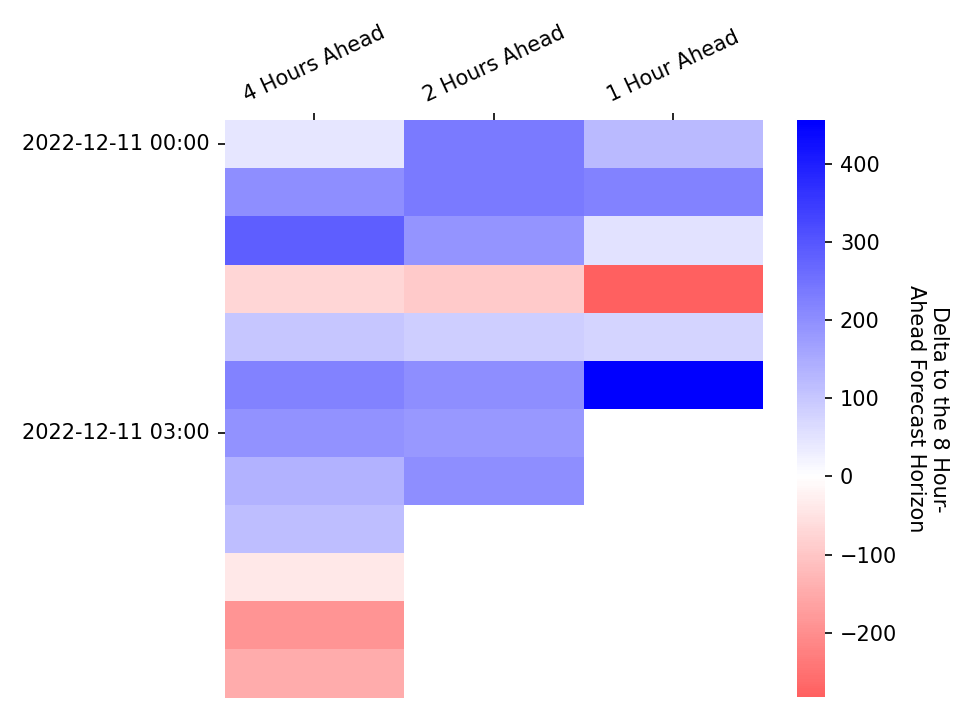
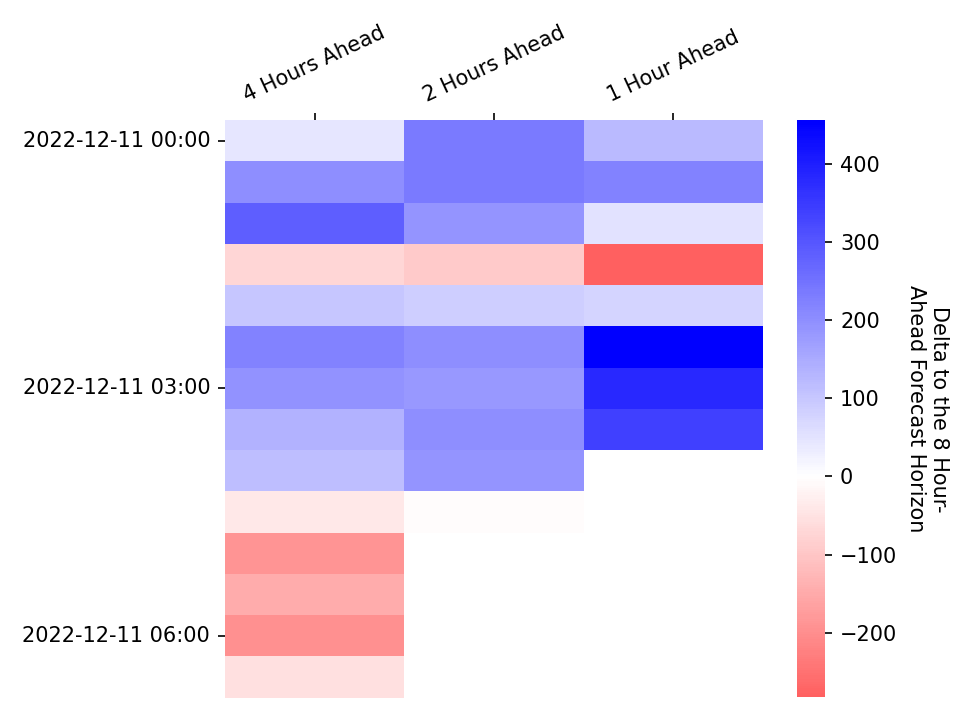
Apply automatic changes

diff --git a/docs/js/map.js b/docs/js/map.js
@@ -144,7 +144,7 @@ document.addEventListener("DOMContentLoaded", function() {
                 follow: 1
             });
             mymap.addControl(sliderControl);
-            sliderControl.startSlider(333);
+            sliderControl.startSlider(335);
         });
     });
 });

diff --git a/docs/visualisations.md b/docs/visualisations.md
@@ -60,7 +60,7 @@ In each settlement period the system operator publishes the de-rated margin fore
 * At 1200 hours on each calendar day for all Settlement Periods for which Gate Closure has not yet passed and which occur within the current Operational Day or the following Operational Day; and
 * At eight, four, two and one hour(s) prior to the beginning of the Settlement Period to which the De-Rated Margin Forecast relates.
 
-These figures will be updated on an hourly basis, the last update was at: 2022-12-11 02:25
+These figures will be updated on an hourly basis, the last update was at: 2022-12-11 03:05
 
 <br>
 
@@ -83,7 +83,7 @@ The following heatmap shows how the more recent de-rated margin forecasts deviat
 
 ### Power Output Map
 
-Last Updated: 2022-12-11 02:25
+Last Updated: 2022-12-11 03:05
 
 This map shows the power output of individual plants connected to the transmission grid as stated in their most recent Physical Notifications. This data can be retrieved through the *PHYBMDATA* BMRS stream, the out-turn data can be viewed one week later through the *B1610* stream. The scrollbar at the top of the map can be used to view how the generation sources have changed their output over the last week, the layer control can be used to toggle on/off the transmission network, and the plants themselves can be clicked to reveal additional information. The plant location data used in this map has been taking from a sister project, [the Power Station Dictionary](https://osuked.github.io/Power-Station-Dictionary/), which aims to link between data about individual power plants.
 
